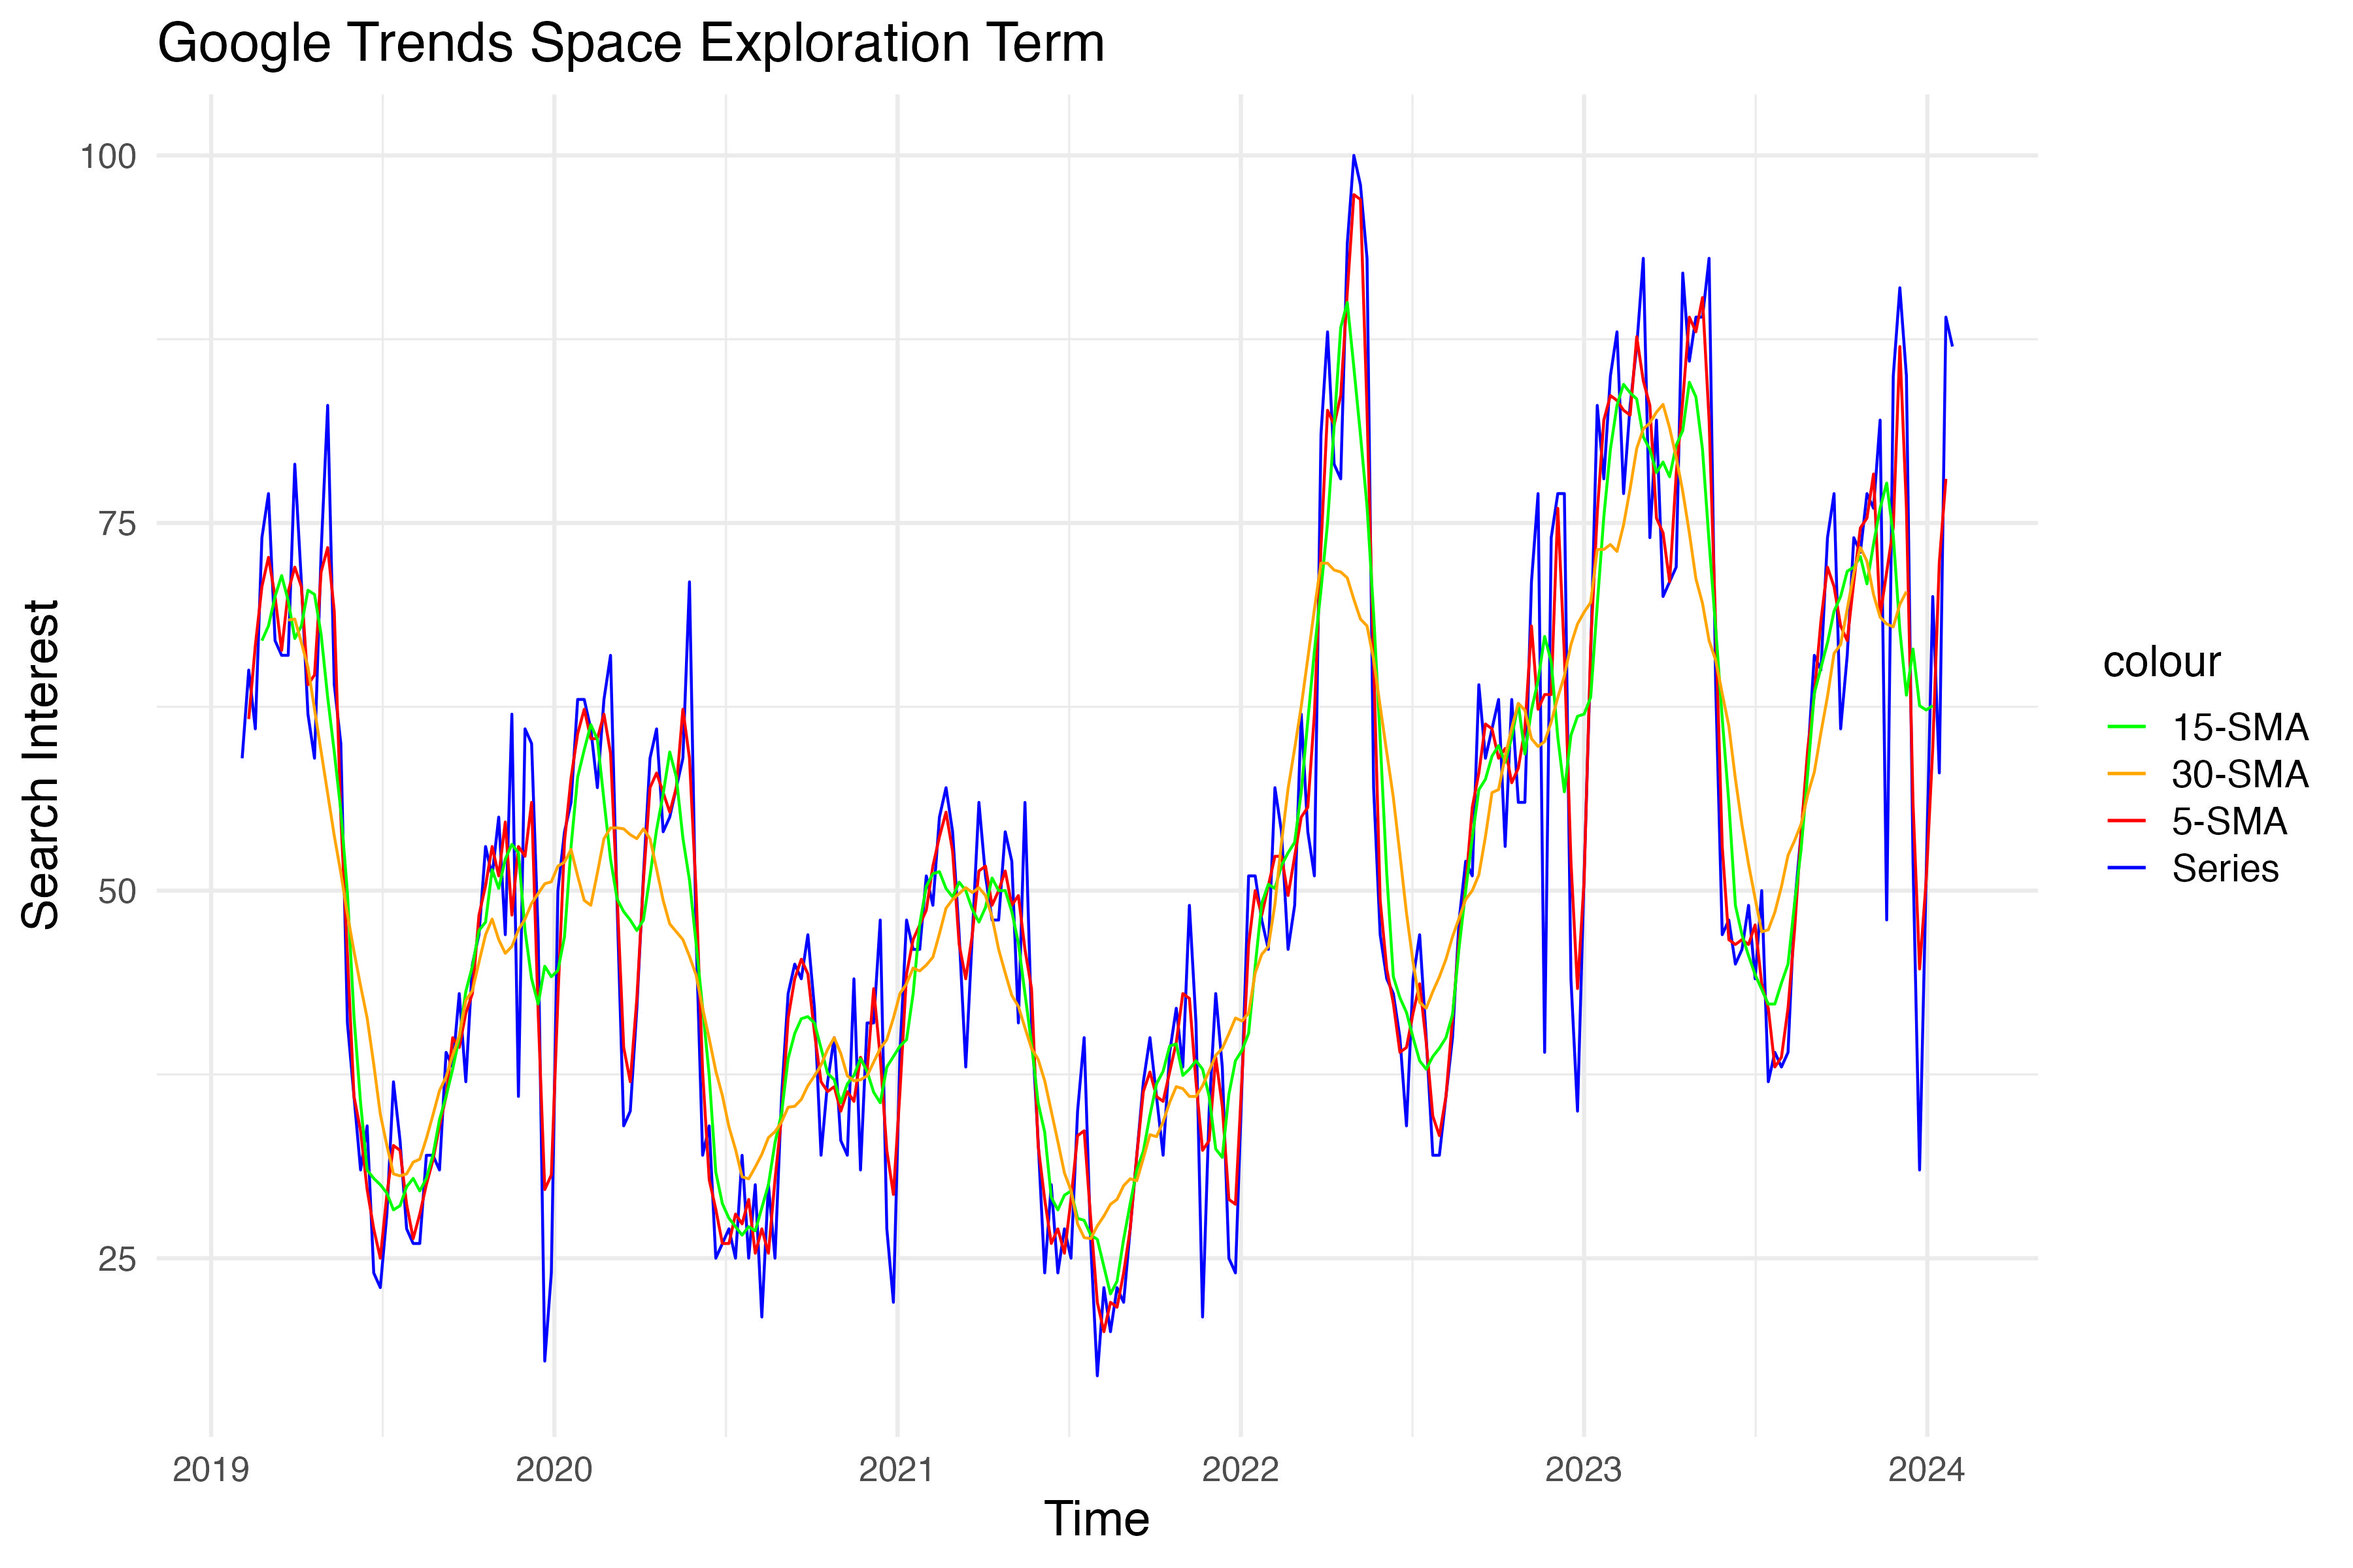
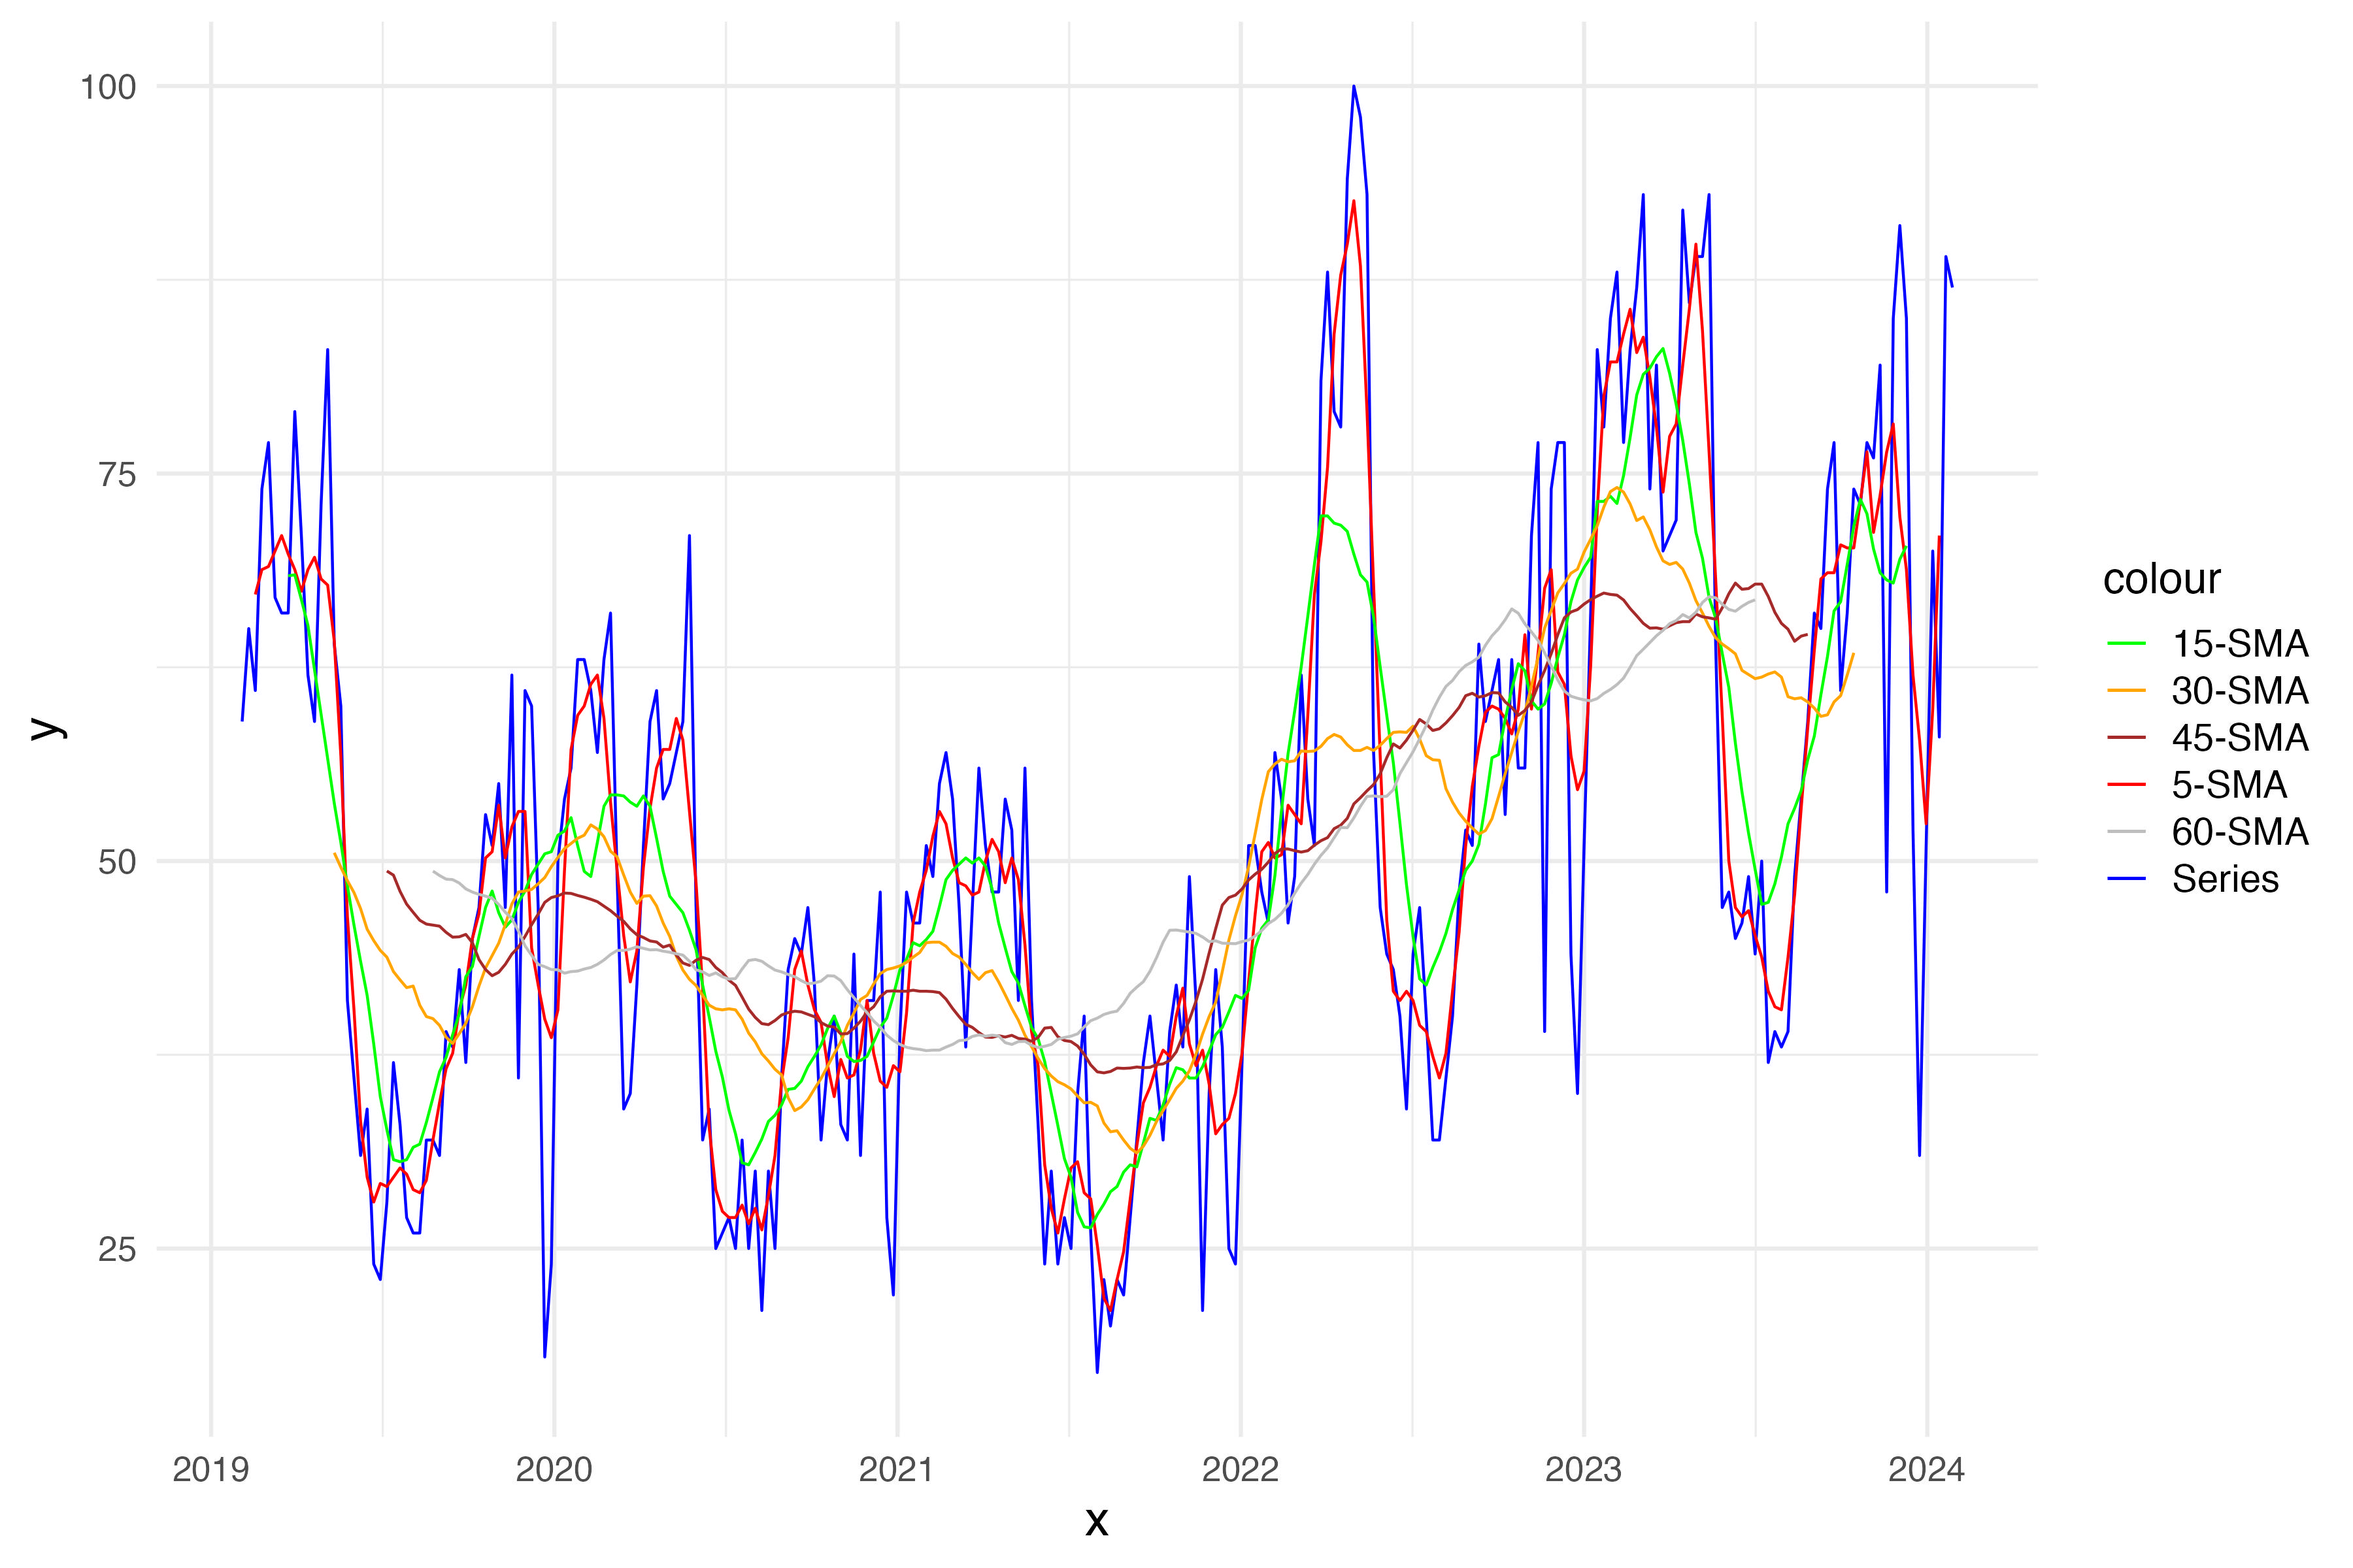
hw completion check

diff --git a/docs/pages/05_univariate_ts.html b/docs/pages/05_univariate_ts.html
@@ -2471,7 +2471,7 @@ AIC=691.69   AICc=691.79   BIC=697.23
 </div>
 </div>
 </div>
-<p>The RMSE of the fitted model outperforms the benchmark methods <code>Mean</code>, <code>Naive</code>, <code>SNaive</code>, and <code>RWF</code> in all cases. The are some that were very close to the performance of the benchmark methods such as <strong>ARKX</strong> (with RMSEs vs the Naive method of 0.241225 vs 0.241389) and <strong>AVAV</strong> (with RMSEs vs the Naive method of 2.73159 vs 2.73346) as these are random walks. Other series that were close were <strong>Mars Pressure</strong>, <strong>Google Trends</strong>, and <strong>Satellites</strong> whose improvements we will address in the next section.</p>
+<p>The RMSE of the fitted models outperforms the benchmark methods <code>Mean</code>, <code>Naive</code>, <code>SNaive</code>, and <code>RWF</code> in all cases. The are some that were very close to the performance of the benchmark methods such as <strong>ARKX</strong> (with RMSEs vs the Naive method of 0.241225 vs 0.241389) and <strong>AVAV</strong> (with RMSEs vs the Naive method of 2.73159 vs 2.73346) as these are random walks. Other series that were close were <strong>Mars Pressure</strong>, <strong>Google Trends</strong>, and <strong>Satellites</strong> whose improvements we will address in the next section.</p>
 <!-- ----------------------------------------------------------------------------------------------------------------------------------------- -->
 <!-- ==================================================
       SARIMA

diff --git a/docs/pages/04_eda.html b/docs/pages/04_eda.html
@@ -710,7 +710,7 @@ ul.task-list li input[type="checkbox"] {
 </div>
 </div>
 </div>
-<p>Additionally, inspired by the example from the EDA section provided, I have conducted an SMA analysis, incorporating moving averages over 5, 15, and 30 time steps. We observe that the 5-time step moving average for most series sufficiently smooths the data. In contrast, the longer SMAs tend to overly smooth the series, resulting in a loss of visible data trends.</p>
+<p>Lastly, we have conducted an SMA analysis to better understand the underlying patterns. This analysis incorporates the original series (blue) moving averages over 5 (red), 15 (green), 30 (orange), 45 (brown), and 60 (gray) time steps. We observe that, particularly with the series with seasonality, such as <strong>Mars Temperature</strong> and <strong>Mars Pressure</strong>, the 5-time step moving average sufficiently shows the underlying pattern losing too much information. In contrast, the longer SMAs tend to overly smooth the series, resulting in a loss of visible data trends. We see a similar pattern with the financial data series. Overall, the more volatility in the data, the more a larger time step blurs the underlying series.</p>
 
 
 </section>
